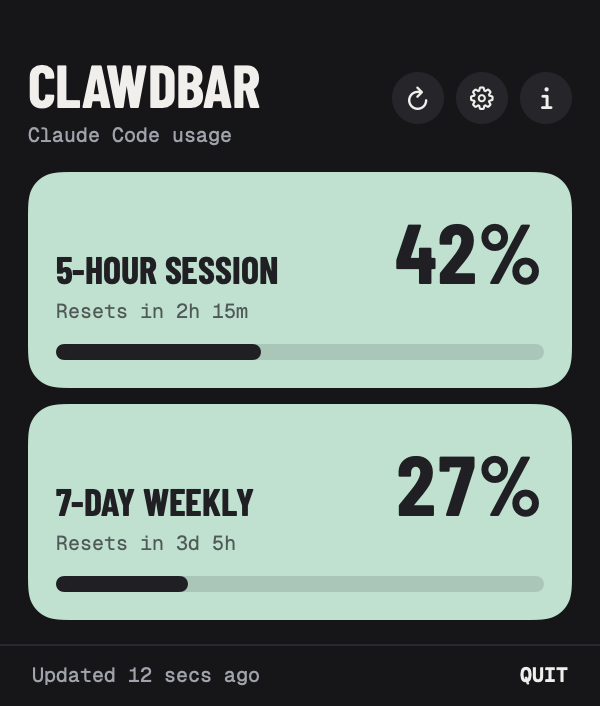
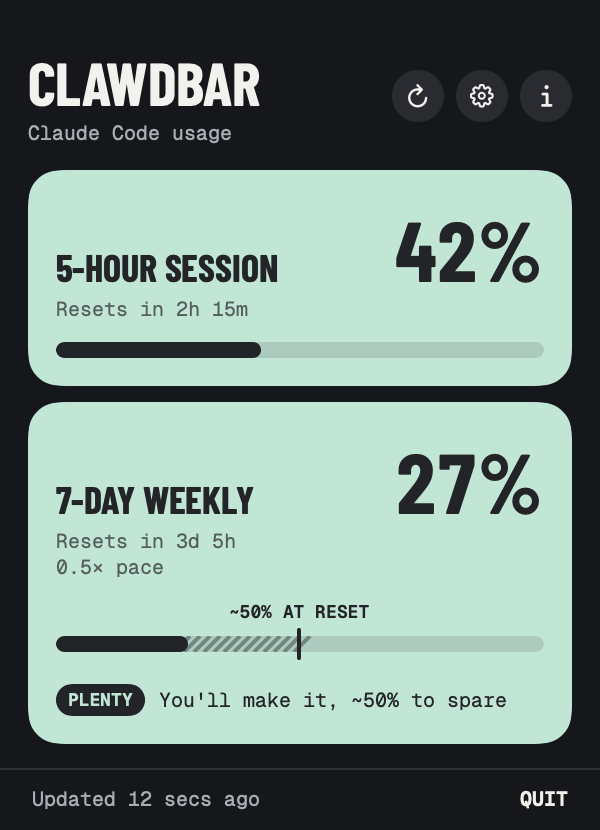
README: refresh screenshots for the 1.1.3 weekly forecast

diff --git a/README.md b/README.md
@@ -20,7 +20,7 @@
 <p align="center">
   <picture>
     <source media="(prefers-color-scheme: dark)" srcset="docs/screenshot-dark.png">
-    <img src="docs/screenshot-light.png" alt="ClawdBar's panel: 5-hour session at 42% and 7-day weekly at 27%, each with a reset time" width="300">
+    <img src="docs/screenshot-light.png" alt="ClawdBar's panel: 5-hour session at 42% and 7-day weekly at 27%, each with a reset time, and a forecast that the week will end with about half to spare" width="300">
   </picture>
 </p>
 
@@ -74,7 +74,7 @@ Open **Settings → Check for updates → Update ClawdBar**, and it quits, updat
 
 <table>
   <tr>
-    <td align="center"><img src="docs/busy.png" alt="Busy day: session at 86% in peach, weekly at 64% in butter" width="200"><br><sub><b>Busy day</b></sub></td>
+    <td align="center"><img src="docs/busy.png" alt="Busy day: session at 86% in peach, weekly at 64% in butter and forecast to run dry a day early" width="200"><br><sub><b>Busy day</b></sub></td>
     <td align="center"><img src="docs/settings.png" alt="Settings: usage alerts, refresh interval, launch at login, Claude account, updates" width="190"><br><sub><b>Settings</b></sub></td>
     <td align="center"><img src="docs/welcome.png" alt="Welcome screen explaining how ClawdBar works" width="200"><br><sub><b>First launch</b></sub></td>
   </tr>
